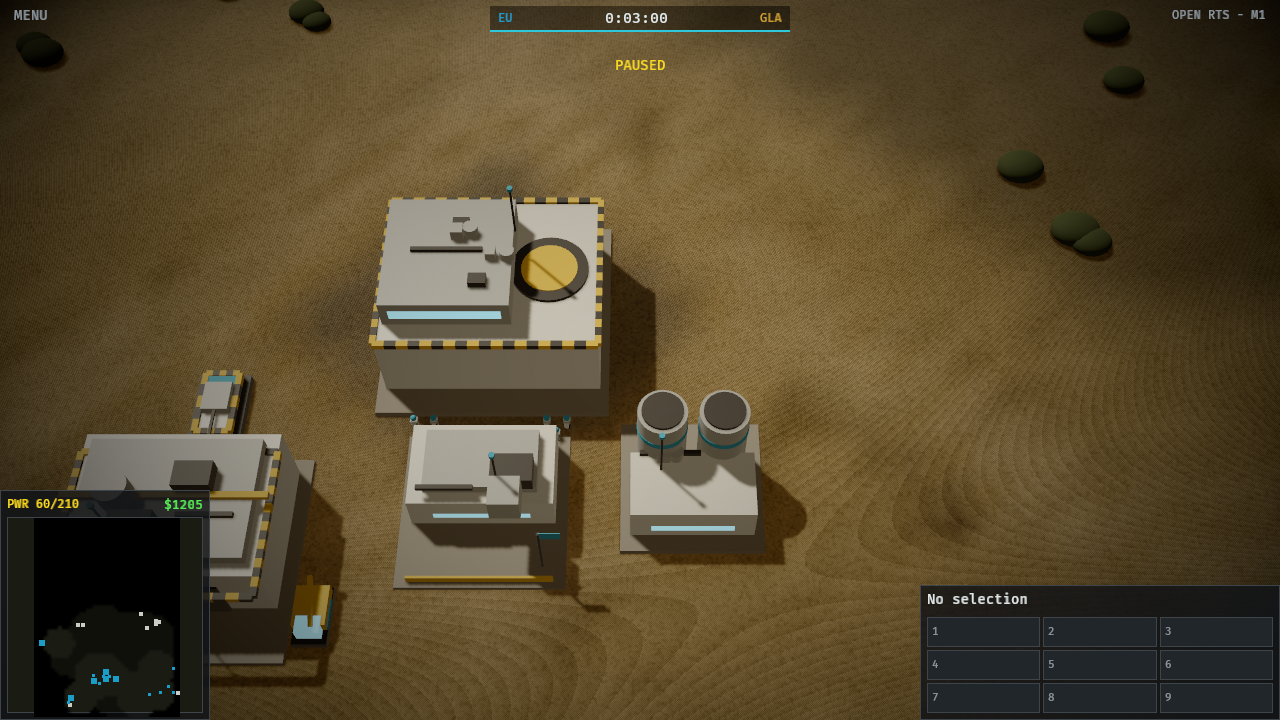
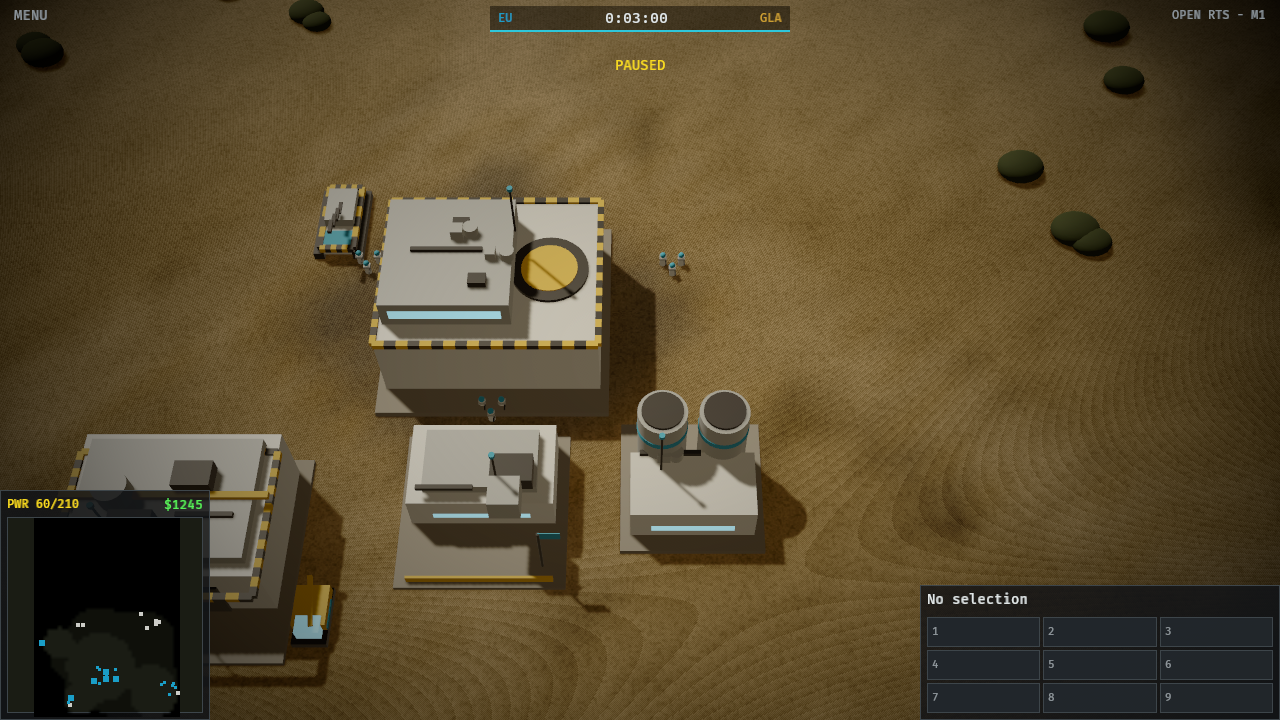
docs: re-render imported-map frames after artillery; update their counts

diff --git a/README.md b/README.md
@@ -80,7 +80,7 @@ Not yet:
 - Fog tests: an attack on an enemy never seen is rejected; once scouted, the building can be attacked from out of sight and the order holds through the fog until the tank fires (the test fails if memory isn't accepted, or if the order is dropped in the fog); scenery on unexplored ground stays hidden until a unit explores it; an enemy foundation raised on explored ground out of sight doesn't clear the scenery on it; an enemy command center destroyed out of sight keeps its model and the scenery clearing under it until our dozer sees the spot again (fails if ghosts are dropped). The headless mirror check allows a model with no sim entity only if the fog still remembers it.
 - Artillery tests (`crates/g2-rules/tests/artillery.rs`): a shell lands on the spot after distance over speed and misses a target that drove off (fails with instant shells); every enemy in the blast is hit and our own worker standing in it is not (fails if splash hits friends); no shot inside the minimum range; the Thunderfist deploys and packs up in its set-up time, can't move while deployed, and rejects `Deploy` for units that can't; it deploys on its own for a target beyond its cannon on an attack order and on an attack-move; AI matches with artillery replay to the same hash. The reference replay was re-recorded on purpose for artillery.
 - A test drives the real Bevy schedule without a renderer: orders between frames, a ×4 burst, then a saved replay. That replay verifies to the same final hash, which covers the client's command path end to end.
-- Imported maps: all 174 official maps parse in a test; a recorded AI match on `zh:Tournament Desert` round-trips through a replay and verifies to the same hash, and a moved resource is caught as a changed map; terrain tests check that starts sit on the battlefield level, original scenery stays off bases and water, the ridge past the edge has no steps, and water surfaces stay inside the map; a test aims camera rays at 361 points on Defcon6's terraces and checks each lands within 0.5 units. Tournament Desert, Alpine Assault, Golden Oasis, Defcon6 and Winding River were rendered headless with the mirror check passing (models on terrain, none misplaced): Tournament Desert 68/68, Winding River 73/73 for the frames above. On Winding River the unexplored river measured about 17–20 luminance under fog against 62–68 with `--reveal`. In an A/B of the water drawing, translucent water was dark at some unexplored river points and nearly revealed-bright at others (blending order depends on each mesh's distance to the camera); opaque water without lifting the fog sheet onto its surface stayed at the revealed brightness everywhere; opaque water with the lift is dark throughout.
+- Imported maps: all 174 official maps parse in a test; a recorded AI match on `zh:Tournament Desert` round-trips through a replay and verifies to the same hash, and a moved resource is caught as a changed map; terrain tests check that starts sit on the battlefield level, original scenery stays off bases and water, the ridge past the edge has no steps, and water surfaces stay inside the map; a test aims camera rays at 361 points on Defcon6's terraces and checks each lands within 0.5 units. Tournament Desert, Alpine Assault, Golden Oasis, Defcon6 and Winding River were rendered headless with the mirror check passing (models on terrain, none misplaced): Tournament Desert 70/70, Winding River 72/72 for the frames above. On Winding River the unexplored river measured about 24–27 luminance under fog against 78–86 with `--reveal`. In an A/B of the water drawing (fog milestone), translucent water was dark at some unexplored river points and nearly revealed-bright at others (blending order depends on each mesh's distance to the camera); opaque water without lifting the fog sheet onto its surface stayed at the revealed brightness everywhere; opaque water with the lift is dark throughout.
 - The **interactive** window (mouse, keyboard, camera) has not been exercised; the build host has no display. That includes the attack and Ctrl attack-move orders, mixed selections (armed units attack, the rest walk to the spot), clicking onto hills (the ray march itself is unit-tested), clicking remembered buildings in the fog, and the camera easing up and down terrain while panning. The "+credits" pop-ups, moving tracers and the fog sheet updating as units move have only been seen frozen in screenshots; a test checks that every delivery reaches the pop-up queue at ×8.
 - **GPU on the build host:** the discrete amdgpu device (`c7:00.0`, MI50) is wedged; opening it hangs the process in D state. Run every GPU command through `scripts/igpu-only/run.sh`. It hides the MI50's DRM nodes with an `LD_PRELOAD` shim, so only the integrated Radeon (`c8:00.0`, `renderD128`) is enumerated. strace confirms `renderD128` is the only device node opened:
 
